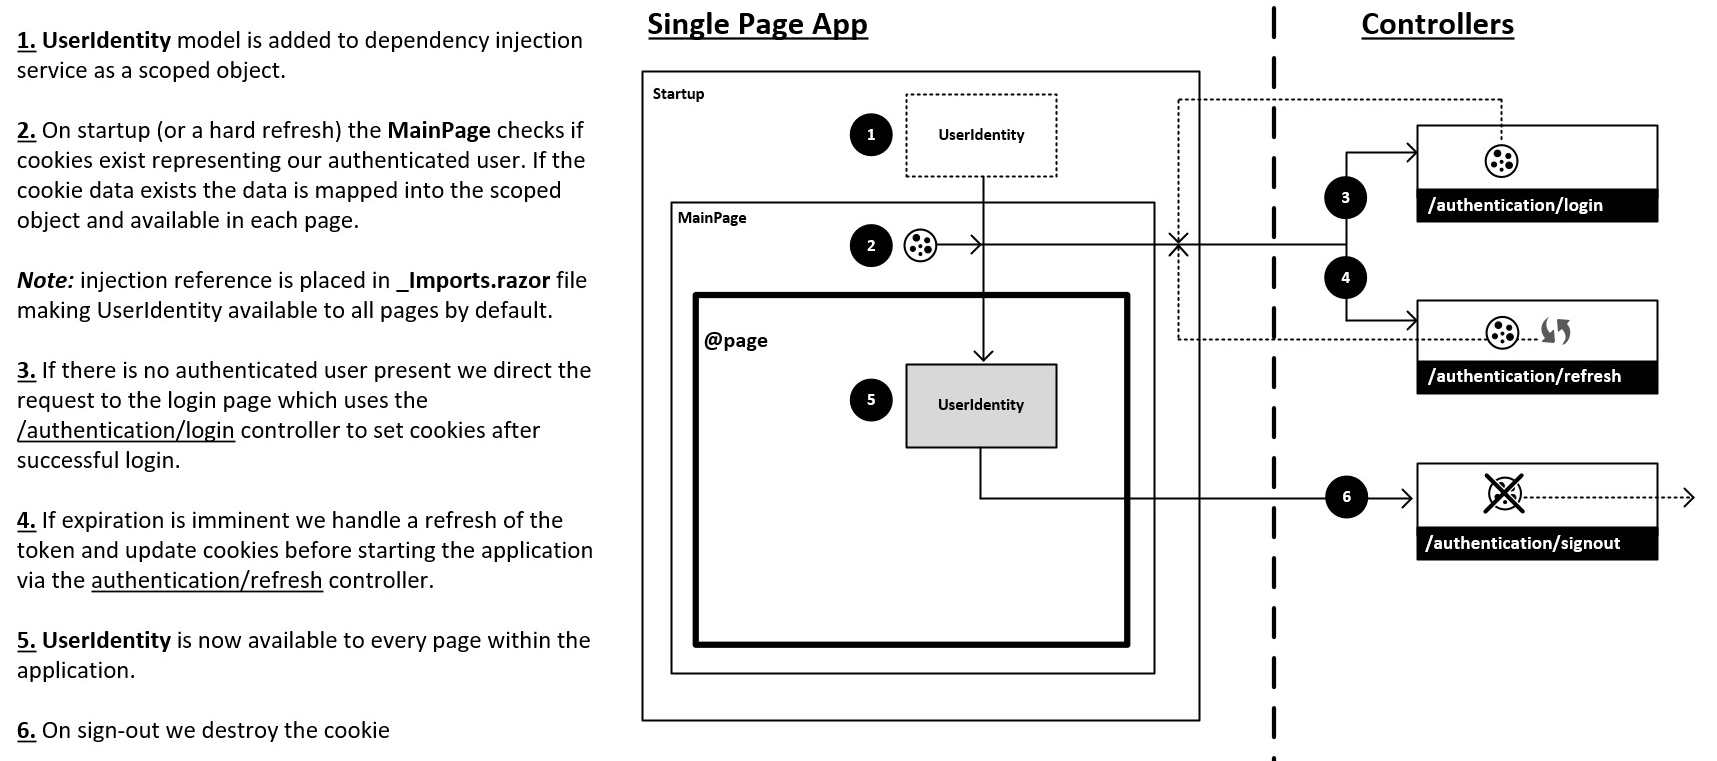
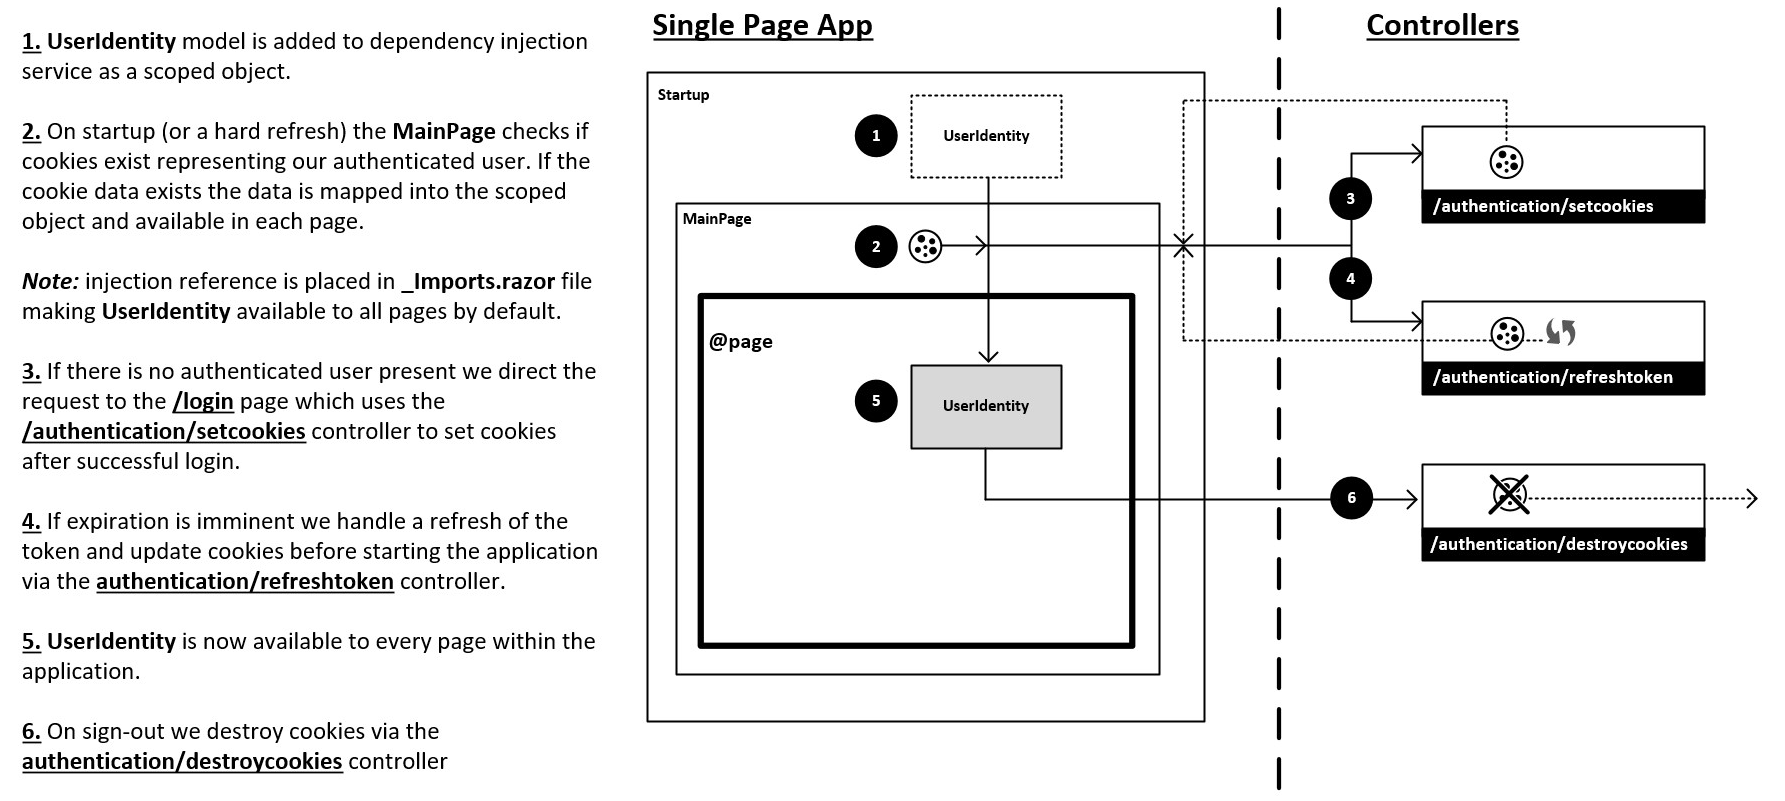
Updated docs and route names

diff --git a/BlazorServerJWTAuth/Authentication/Encryption/StringEncryption.cs b/BlazorServerJWTAuth/Authentication/Encryption/StringEncryption.cs
@@ -1,0 +1,59 @@
+using System;
+using System.Collections.Generic;
+using System.IO;
+using System.Linq;
+using System.Security.Cryptography;
+using System.Text;
+using System.Threading.Tasks;
+
+namespace BlazorServerJWTAuth.Authentication.Encryption
+{
+    /// <summary>
+    /// Two way encryption that allows for retrieval of original string with correct passphrase
+    /// </summary>
+    public static class StringEncryption
+    {
+        // This size of the IV (in bytes) must = (keysize / 8).  Default keysize is 256, so the IV must be
+        // 32 bytes long.  Using a 16 character string here gives us 32 bytes when converted to a byte array.
+        private const string initVector = "kzzil6ytRRtzyYx1";
+        // This constant is used to determine the keysize of the encryption algorithm
+        private const int keysize = 256;
+        //Encrypt
+        public static string EncryptString(string plainText, string passPhrase)
+        {
+            byte[] initVectorBytes = Encoding.UTF8.GetBytes(initVector);
+            byte[] plainTextBytes = Encoding.UTF8.GetBytes(plainText);
+            PasswordDeriveBytes password = new PasswordDeriveBytes(passPhrase, null);
+            byte[] keyBytes = password.GetBytes(keysize / 8);
+            RijndaelManaged symmetricKey = new RijndaelManaged();
+            symmetricKey.Mode = CipherMode.CBC;
+            ICryptoTransform encryptor = symmetricKey.CreateEncryptor(keyBytes, initVectorBytes);
+            MemoryStream memoryStream = new MemoryStream();
+            CryptoStream cryptoStream = new CryptoStream(memoryStream, encryptor, CryptoStreamMode.Write);
+            cryptoStream.Write(plainTextBytes, 0, plainTextBytes.Length);
+            cryptoStream.FlushFinalBlock();
+            byte[] cipherTextBytes = memoryStream.ToArray();
+            memoryStream.Close();
+            cryptoStream.Close();
+            return Convert.ToBase64String(cipherTextBytes);
+        }
+        //Decrypt
+        public static string DecryptString(string cipherText, string passPhrase)
+        {
+            byte[] initVectorBytes = Encoding.UTF8.GetBytes(initVector);
+            byte[] cipherTextBytes = Convert.FromBase64String(cipherText);
+            PasswordDeriveBytes password = new PasswordDeriveBytes(passPhrase, null);
+            byte[] keyBytes = password.GetBytes(keysize / 8);
+            RijndaelManaged symmetricKey = new RijndaelManaged();
+            symmetricKey.Mode = CipherMode.CBC;
+            ICryptoTransform decryptor = symmetricKey.CreateDecryptor(keyBytes, initVectorBytes);
+            MemoryStream memoryStream = new MemoryStream(cipherTextBytes);
+            CryptoStream cryptoStream = new CryptoStream(memoryStream, decryptor, CryptoStreamMode.Read);
+            byte[] plainTextBytes = new byte[cipherTextBytes.Length];
+            int decryptedByteCount = cryptoStream.Read(plainTextBytes, 0, plainTextBytes.Length);
+            memoryStream.Close();
+            cryptoStream.Close();
+            return Encoding.UTF8.GetString(plainTextBytes, 0, decryptedByteCount);
+        }
+    }
+}

diff --git a/BlazorServerJWTAuth/Controllers/AuthenticationController.cs b/BlazorServerJWTAuth/Controllers/AuthenticationController.cs
@@ -6,7 +6,7 @@ using Microsoft.AspNetCore.Mvc;
 
 namespace BlazorServerJWTAuth.Controllers
 {
-    [Route("authentication")]
+    [Route("Authentication")]
     public class AuthenticationController : Controller
     {
         private Models.Configuration.Settings _settings;
@@ -15,8 +15,8 @@ namespace BlazorServerJWTAuth.Controllers
             _settings = settings;
         }
 
-        [Route("login")]
-        public IActionResult Login(string jwtToken, string refreshToken, string redirectUrl)
+        [Route("SetCookies")]
+        public IActionResult SetCookies(string jwtToken, string refreshToken, string redirectUrl)
         {
             
             HttpContext.Response.Cookies.Append(
@@ -25,13 +25,13 @@ namespace BlazorServerJWTAuth.Controllers
 
             HttpContext.Response.Cookies.Append(
                 _settings.RefreshTokenCookieName,
-                refreshToken);
+                Authentication.Encryption.StringEncryption.EncryptString(refreshToken, _settings.RefreshTokenEncryptionPassPhrase));
 
             return LocalRedirect(redirectUrl);
         }
 
-        [Route("refresh")]
-        public IActionResult Refresh(string refreshToken, string redirectUrl)
+        [Route("RefreshToken")]
+        public IActionResult RefreshToken(string refreshToken, string redirectUrl)
         {
             /*
             HttpContext.Response.Cookies.Append(
@@ -44,18 +44,13 @@ namespace BlazorServerJWTAuth.Controllers
             return LocalRedirect(redirectUrl);
         }
 
-        [Route("signout")]
-        public IActionResult Signout()
+        [Route("DestroyCookies")]
+        public IActionResult DestroyCookies()
         {
-            /*
-            HttpContext.Response.Cookies.Append(
-                    CookieRequestCultureProvider.DefaultCookieName,
-                    CookieRequestCultureProvider.MakeCookieValue(
-                        new RequestCulture(culture)));
-            */
+            HttpContext.Response.Cookies.Delete(_settings.JWTCookieName);
+            HttpContext.Response.Cookies.Delete(_settings.RefreshTokenCookieName);
 
-
-            return LocalRedirect("signout");
+            return LocalRedirect("/");
         }
     }
 }

diff --git a/BlazorServerJWTAuth/Authentication/Models/AuthCookies.cs b/BlazorServerJWTAuth/Authentication/Models/AuthCookies.cs
@@ -1,0 +1,13 @@
+using System;
+using System.Collections.Generic;
+using System.Linq;
+using System.Threading.Tasks;
+
+namespace BlazorServerJWTAuth.Authentication.Models
+{
+    public class AuthCookies
+    {
+        public string JwtToken { get; set; }
+        public string RefreshToken { get; set; }
+    }
+}
